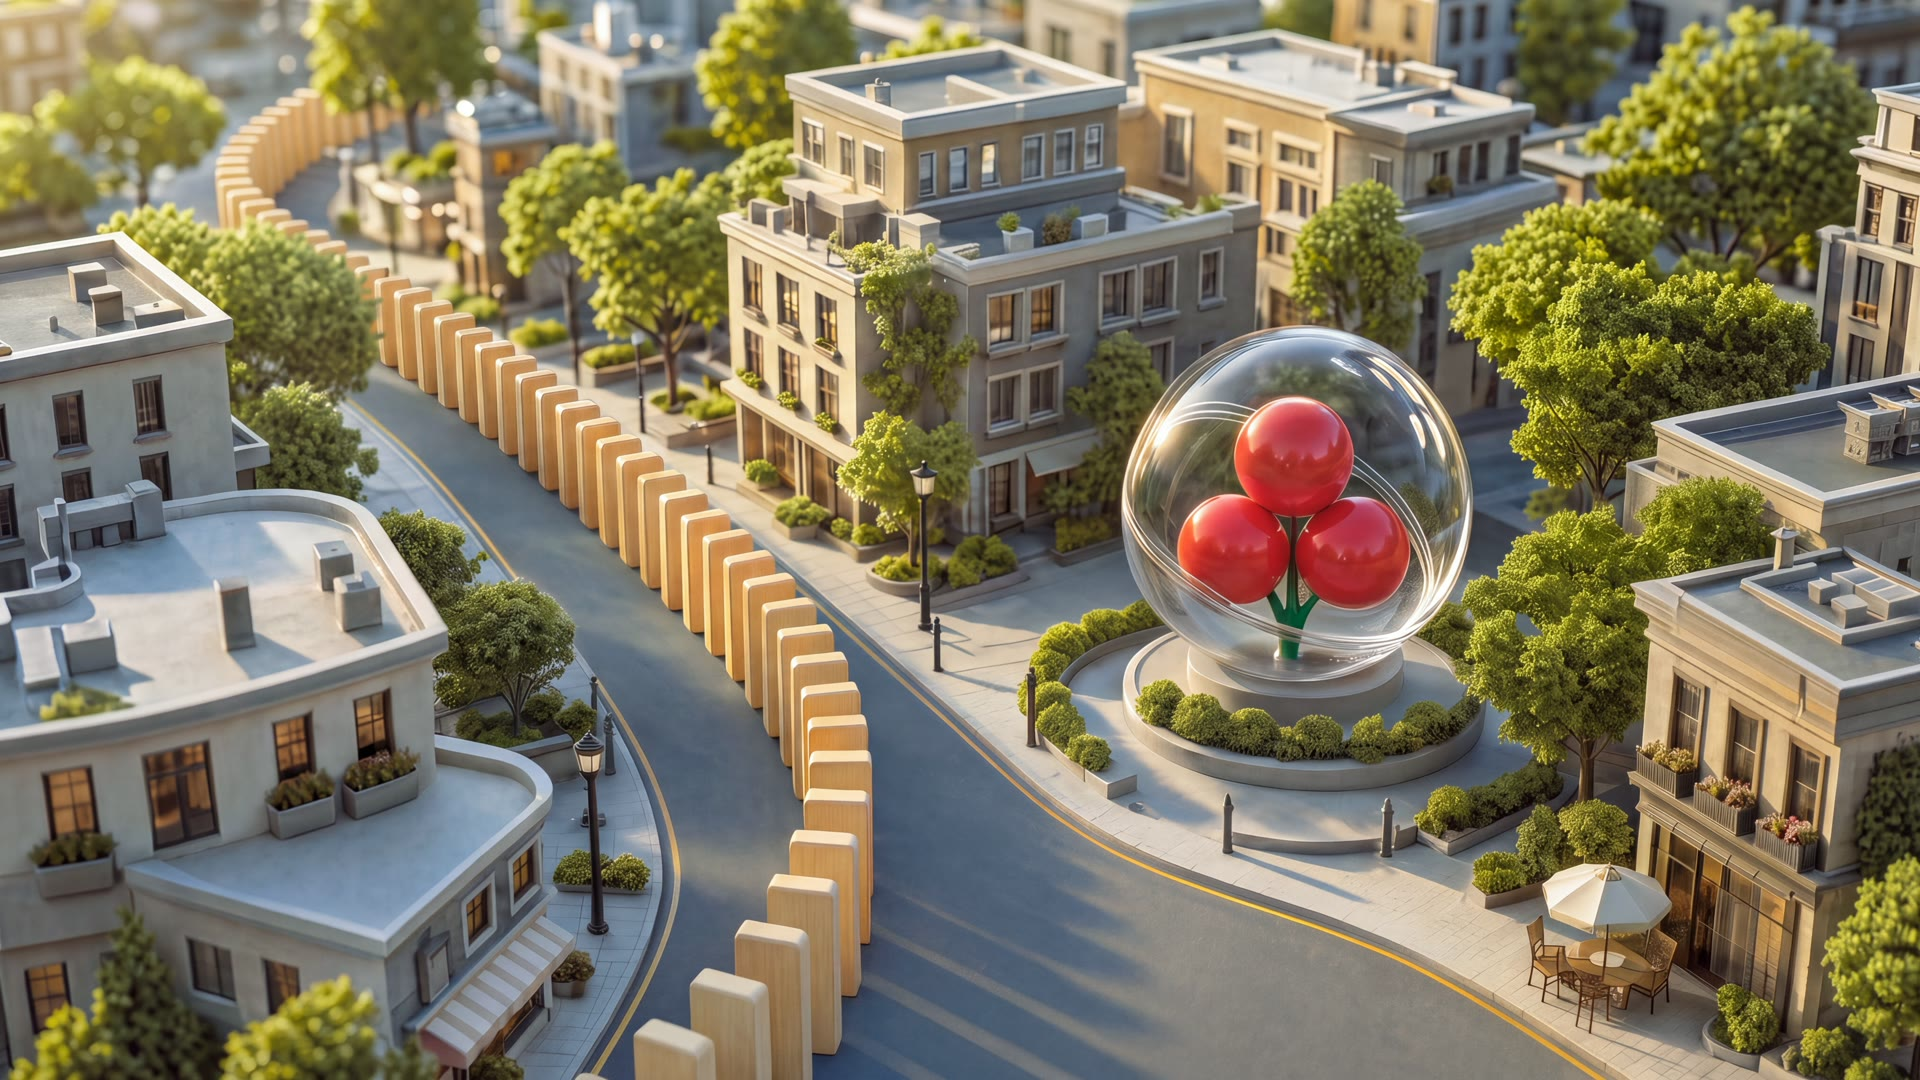
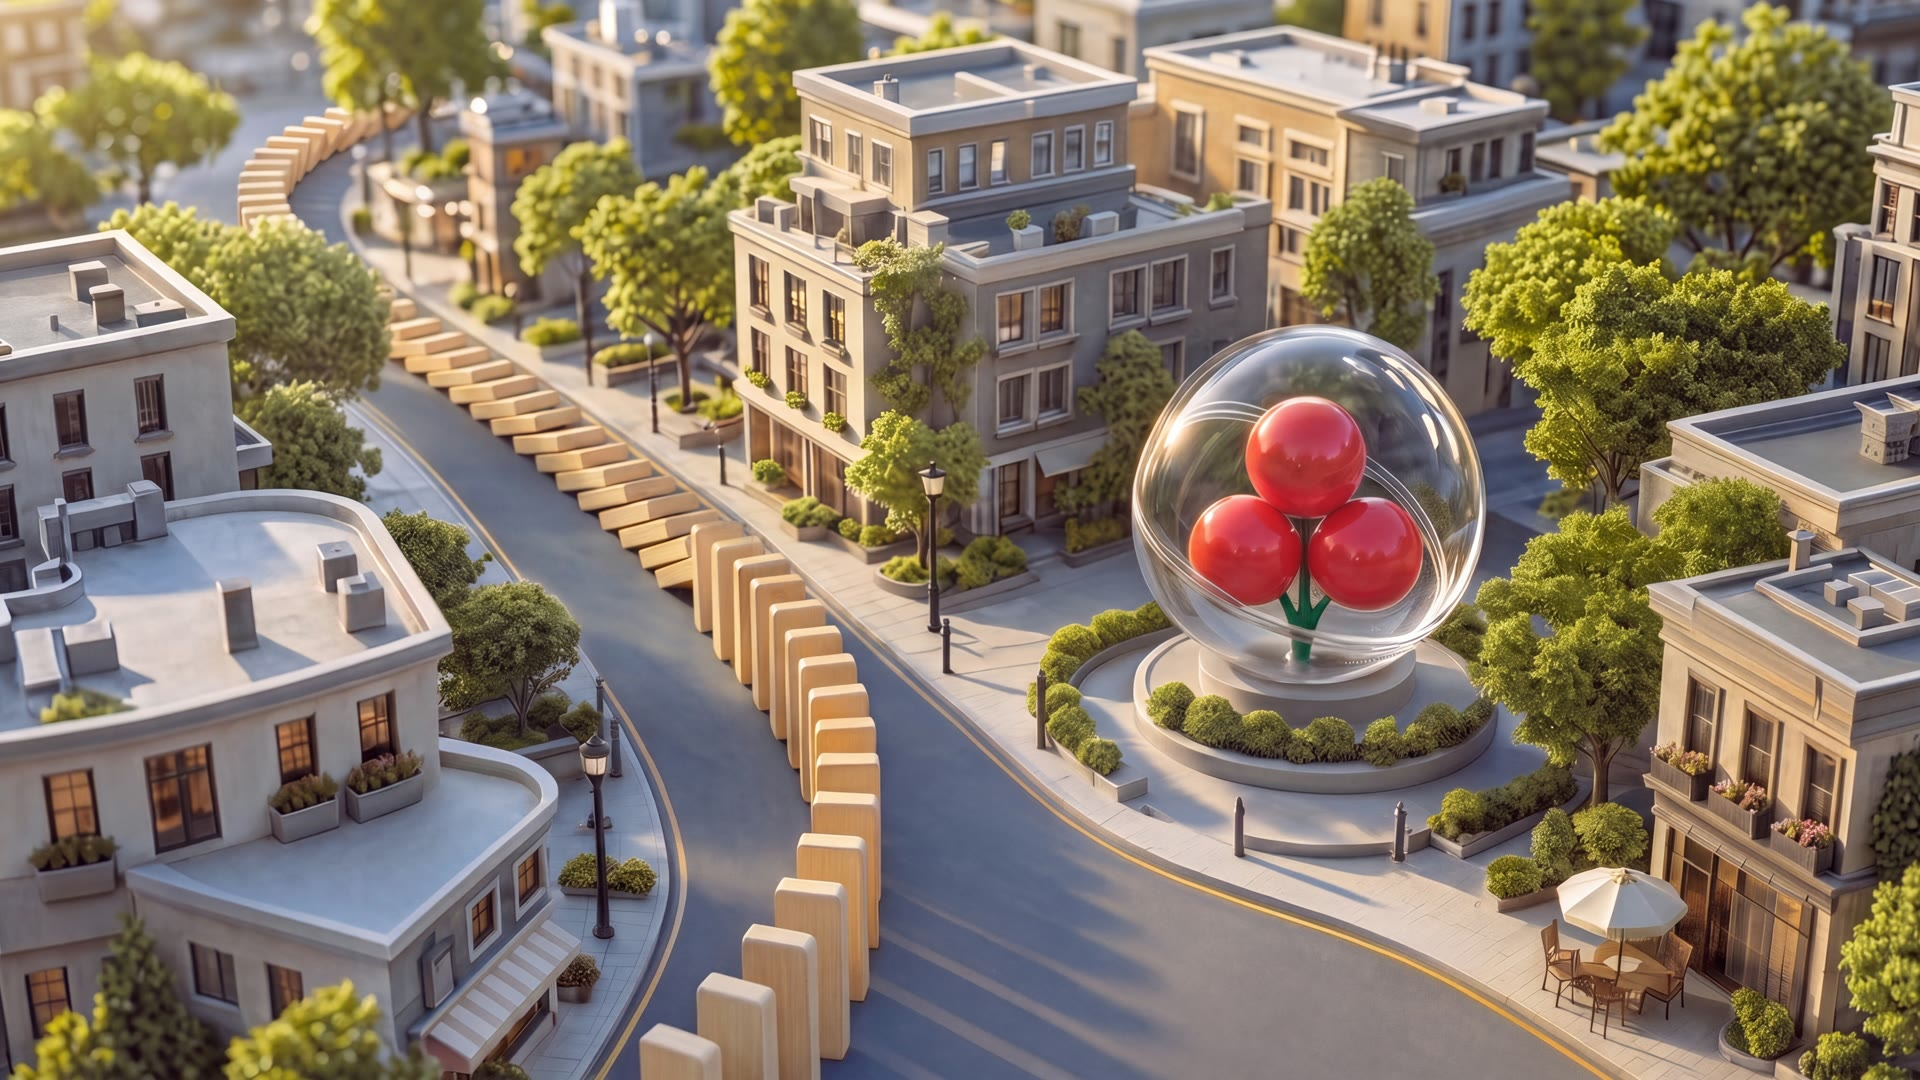
CUT 05 그림을 iv5_18 로 바꾼다
앞판(iv5_15)은 도미노가 전부 서 있어 03 · 04 에서 쓰러지기 시작한 시제가
여기서 거꾸로 갔다. 이 판은 먼 쪽이 눕고 가까운 쪽이 서 있다 — 파면이 카메라
쪽으로 오고, 그 자리가 열매 조형 옆이다.

diff --git a/assets/led/README.md b/assets/led/README.md
@@ -41,7 +41,7 @@
 | 02 | `cut02.jpg` | `iv2_1` | 아치를 지나 도시로 — CUT 01 의 줄이 그대로 이어진다 |
 | 03 | `cut03.jpg` | `iv3_7` | 길을 따라 줄이 휘어 가고, 앞쪽은 이미 쓰러졌다 |
 | 04 | `cut04.jpg` | `iv4_15` | 줄이 모퉁이 건물을 감아 돌며 쓰러진다 |
-| 05 | `cut05.jpg` | `iv5_15` | 유리돔 안의 열매 조형을 지나간다 |
+| 05 | `cut05.jpg` | `iv5_18` | 유리돔 열매 조형을 지나며 쓰러진다 |
 | 06 | `cut06.jpg` | `iv6_13` | 건물 전광판에 캐릭터가 뜬다 |
 | 07 | `cut07.jpg` | `iv7_7` | 개천 옆 마을길을 따라 줄이 열매 조형을 지나간다 |
 | 08 | `cut08.jpg` | `iv8_18` | 유리돔 열매 조형을 눈높이로 — **랜드마크 컷** |
